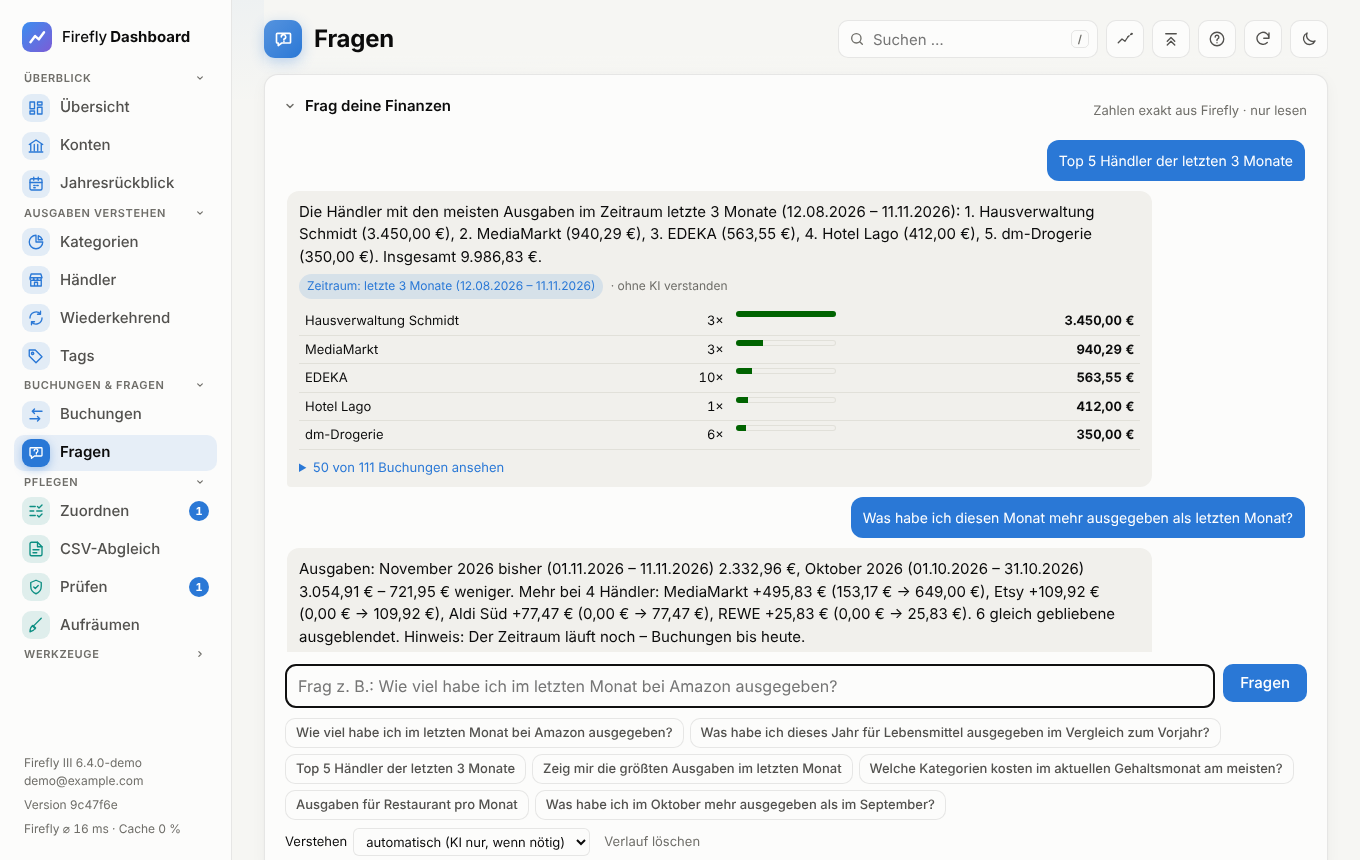
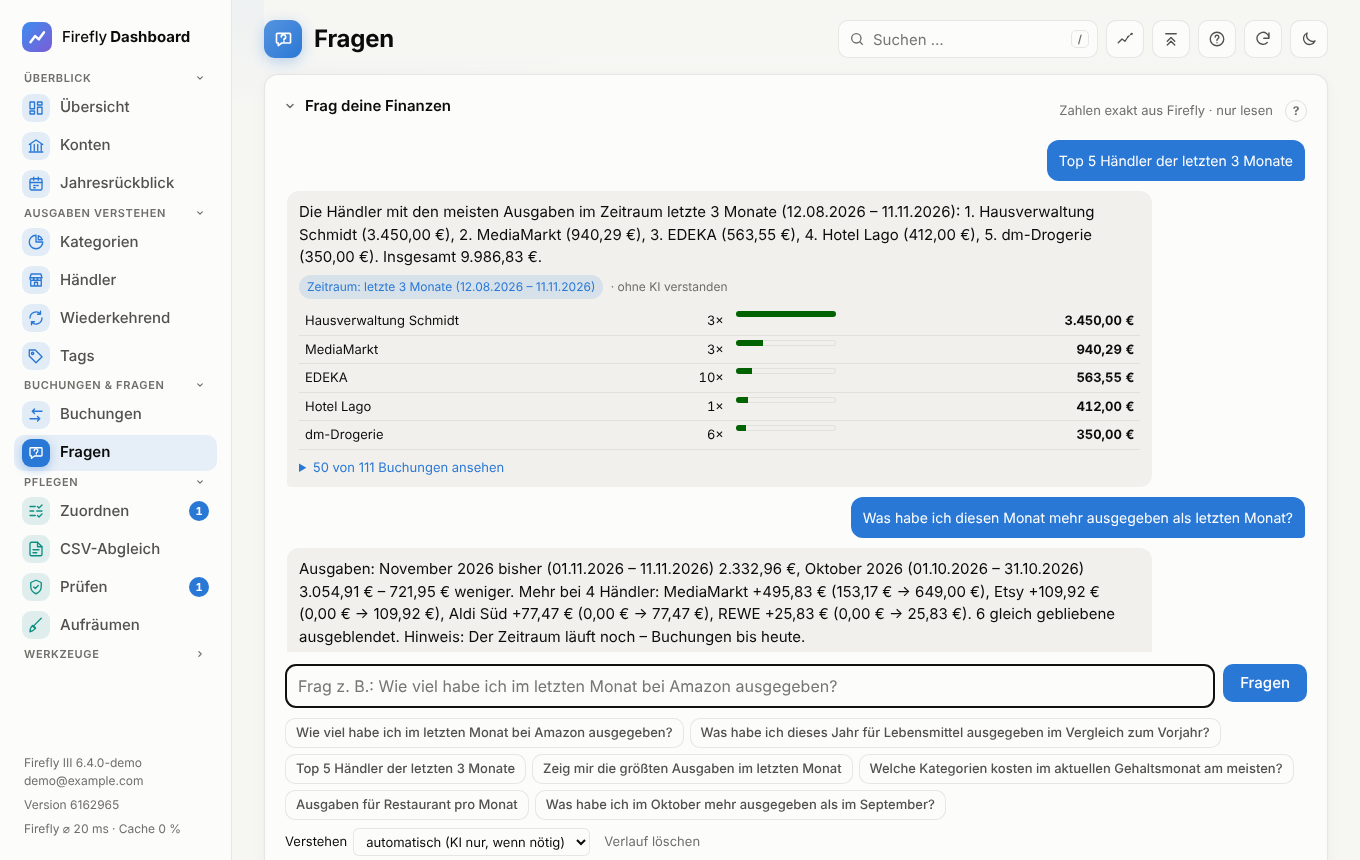
Doku vervollständigt: Hilfe zu allen Karten, Menü, LEDGER
- Hilfe (?) für die neuen Karten: Zuordnen, Wiederkehrend (Vorschau, Demnächst,
  Verträge, Rücklage, Von Hand), Kategorien zusammenführen, CSV-Abgleich, Händler, Fragen
- Seitenhilfe: „In Firefly übernehmen“ (Zuordnen), Kategorien zusammenführen
  (Aufräumen), Kontostand-Vergleich (CSV-Archiv)
- Kartenkennung a-cats im Aufräumen doppelt mit der Kontoseite → a-catmerge
- README: Abschnitt Menü; .env.example: LEDGER
- Screenshots neu (Hilfe-Knöpfe auf den Karten)

Claude-Session: https://claude.ai/code/session_017CCe4q4F121UhA8tHqTQzy

diff --git a/public/js/help.js b/public/js/help.js
@@ -36,7 +36,7 @@ export const PAGES = {
     app: 'Sucht gleiche Empfänger mit regelmäßigem Rhythmus (monatlich, quartalsweise, jährlich …). „Streng/Normal/Locker“ bestimmt, wie genau Rhythmus und Betrag passen müssen. Der Rhythmus-Filter (mehrere wählbar) wirkt auf Kacheln, „Demnächst fällig“ und die Tabelle.',
     firefly: READ_ONLY,
     tips: ['Kontostand-Vorschau: Kontostand heute plus/minus die erwarteten regelmäßigen Buchungen des Kontos (bis zum Gehalt oder 30–90 Tage), auf Wunsch mit dem Ø der übrigen Ausgaben – mit tiefstem Stand und Warnung.', '✎ in der Tabelle: Vertragsende, Kündigungsfrist und Verlängerung eintragen – 30 Tage vor der Frist kommt ein Hinweis (Übersicht, n8n, Home Assistant). Dort auch „kein Vertrag – ausblenden“ für Fehlerkennungen.', 'Rücklage: was für vierteljährliche bis jährliche Zahlungen monatlich zurückzulegen ist.', 'Nicht erkannte Verträge (z. B. Jahresbeiträge) unten von Hand anlegen.', '„Demnächst fällig“ zeigt alle erwarteten Termine der nächsten 14–90 Tage mit Summe je Monat und laufender Summe.', 'Häkchen in der Tabelle: eigene Summe bilden (z. B. alle Versicherungen) – je Monat, je Jahr und für die nächsten Tage. Die Auswahl merkt sich das Gerät.', 'Unter der Tabelle steht die Summe aller angezeigten (gefilterten) Einträge.'],
-    cards: ['r-table'],
+    cards: ['r-forecast', 'r-soon', 'r-table', 'r-contracts', 'r-reserve', 'r-add'],
   },
   transactions: {
     title: 'Buchungen',
@@ -71,9 +71,9 @@ export const PAGES = {
     title: 'Kategorien zuordnen',
     what: 'Buchungen ohne Kategorie in Firefly bekommen im Dashboard automatisch eine – aus dem Händler abgeleitet. So laufen z. B. Netto, Aldi und Lidl unter „Lebensmittel“ zusammen.',
     app: 'Die Reihenfolge: deine Zuordnung (einzelne Buchung, dann Händler) → deine Regeln aus dem Labor → deine Import-Zuordnung (Tabelle „Händler → Kategorie“ der Data-Importer-Konfiguration) → gelernt aus deinen kategorisierten Buchungen → eingebaute Händlerliste → KI-Bewertung. Kategorien aus Firefly bleiben immer. Bei PayPal & Co. zählt der Händler aus dem Buchungstext („Ihr Einkauf bei …“). Die automatische Kategorie gilt in Übersicht, Kategorien, Jahresrückblick, Händler, Fragen, Berichten und MQTT. In den Buchungsdetails steht „automatisch“.',
-    firefly: 'Nichts – Firefly bleibt unverändert, dort haben die Buchungen weiter keine Kategorie. Wer sie auch in Firefly haben will: im Labor Regeln nach Firefly übertragen.',
-    tips: ['Oben steht, wie viel der Ausgaben abgedeckt ist. Die offenen Händler sind nach Betrag sortiert – die ersten zehn bringen am meisten.', 'Eine Zuordnung gilt für alle Buchungen des Händlers, auch künftige.', '„Buchungen ansehen“ zeigt jede einzelne Buchung samt Herkunft der Kategorie; „nur diese“ ordnet eine einzelne Buchung abweichend zu.', '„In Firefly übernehmen“: ausgewählte Zuordnungen als Firefly-Regeln (nur für Ausgaben ohne Kategorie, auf Wunsch rückwirkend) – dann setzt Firefly die Kategorie schon beim Import. Einzelne Buchungen werden direkt per n8n gesetzt.', 'Kategorie frei eintippen legt eine neue an (nur im Dashboard).', 'Die Selbstprüfung vergleicht die vom Dashboard gerechneten Summen mit Firefly.'],
-    cards: [],
+    firefly: 'Zuordnen selbst ändert nichts in Firefly – dort haben die Buchungen weiter keine Kategorie. Erst „In Firefly übernehmen“ legt Regeln an (Automation „Firefly-Regeln anlegen“) bzw. setzt einzelne Buchungen (Automation „Kategorie übernehmen“). ' + VIA_N8N,
+    tips: ['Oben steht, wie viel der Ausgaben abgedeckt ist. Die offenen Händler sind nach Betrag sortiert – die ersten zehn bringen am meisten.', 'Eine Zuordnung gilt für alle Buchungen des Händlers, auch künftige.', '„Buchungen ansehen“ zeigt jede einzelne Buchung samt Herkunft der Kategorie; „nur diese“ ordnet eine einzelne Buchung abweichend zu.', '„In Firefly übernehmen“: ausgewählte Zuordnungen als Firefly-Regeln (nur für Ausgaben ohne Kategorie, auf Wunsch rückwirkend) – dann setzt Firefly die Kategorie schon beim Import. Einzelne Buchungen werden direkt per n8n gesetzt.', 'Kategorie frei eintippen legt eine neue an (nur im Dashboard).', 'PayPal-Zahlungen ohne Händler im Text stehen gesammelt unter „PayPal – Händler nicht im Text“ – dort über „Buchungen ansehen“ einzeln zuordnen.', 'Die Selbstprüfung vergleicht die vom Dashboard gerechneten Summen mit Firefly.'],
+    cards: ['z-open', 'z-auto', 'z-ff', 'z-set'],
   },
   check: {
     title: 'Prüfen',
@@ -88,7 +88,7 @@ export const PAGES = {
     app: 'Die Frage wird in eine Abfrage übersetzt (Zeitraum, Händler, Kategorie, Tag, Art der Auswertung) – häufige Fragen ohne KI, ungewöhnliche mit Ollama (wie im Labor eingestellt). Die Zahlen rechnet das Dashboard exakt aus den Firefly-Buchungen; eine KI rechnet nichts und erfindet keine Beträge. Jede Antwort zeigt, wie sie die Frage verstanden hat, und die Buchungen dahinter. Ohne Zeitangabe gelten die letzten 12 Monate. Der Verlauf bleibt nur in diesem Browser.',
     firefly: READ_ONLY,
     tips: ['„Verstehen: automatisch“ nutzt die KI nur, wenn die schnelle Erkennung unsicher ist – das spart Wartezeit bei langsamem Ollama.', 'Händler-, Kategorie- und Tag-Namen so schreiben, wie sie in Firefly heißen; Groß/klein ist egal.', 'Dauert es zu lange: „Abbrechen“ (oder Esc) beendet die Frage – auch die Anfrage an Ollama wird sofort gestoppt.'],
-    cards: [],
+    cards: ['q-chat'],
   },
   merchants: {
     title: 'Händler',
@@ -101,18 +101,18 @@ export const PAGES = {
   cleanup: {
     title: 'Daten aufräumen',
     what: 'Vorschläge, die erst im Dashboard vorbereitet und angepasst und dann per Knopf nach Firefly übertragen werden. Pläne liegen auf dem Server und gelten auf allen Geräten und nach Updates.',
-    app: 'Regeln aus der Import-Konfiguration: die JSON-Datei des Firefly Data Importers hochladen – das Dashboard zeigt die Spaltenzuordnung mit Hinweisen und macht aus der Übersetzungstabelle „Händler → Kategorie“ Regelvorschläge (gleichartige Namen wie Filialnummern zusammengefasst zu „enthält …“). Jede Regel lässt sich ein-/ausschalten, Vergleich, Name, Kategorie und Richtung (Empfänger/Zahler) ändern; Treffer und „würde ändern“ beziehen sich auf die letzten 24 Monate. Gegenkonten zusammenführen: ähnliche Namen (Filialnummern, „sagt Danke“, Groß/klein) oder gleiche IBAN werden gruppiert; je Gruppe Zielkonto, Mitglieder und neuen Namen wählen, ignorieren oder auswählen.',
-    firefly: 'Erst die Knöpfe ändern etwas: „Regeln in Firefly anlegen“ legt die aktiven Regeln in der Regelgruppe „Dashboard: Händler → Kategorie (Import)“ an bzw. gleicht sie ab (Automation „Firefly-Regeln anlegen“), auf Wunsch auch auf vorhandene Buchungen angewendet. „Zusammenführen“ lässt Firefly alle Buchungen der gewählten Konten auf das Zielkonto verschieben (Automation „Kategorie übernehmen“, Zweig „Konten?“) – Kategorien, Tags, Beträge bleiben; leere Konten werden danach nur auf ausdrücklichen Klick gelöscht. ' + VIA_N8N,
+    app: 'Regeln aus der Import-Konfiguration: die JSON-Datei des Firefly Data Importers hochladen – das Dashboard zeigt die Spaltenzuordnung mit Hinweisen und macht aus der Übersetzungstabelle „Händler → Kategorie“ Regelvorschläge (gleichartige Namen wie Filialnummern zusammengefasst zu „enthält …“). Jede Regel lässt sich ein-/ausschalten, Vergleich, Name, Kategorie und Richtung (Empfänger/Zahler) ändern; Treffer und „würde ändern“ beziehen sich auf die letzten 24 Monate. Gegenkonten zusammenführen: ähnliche Namen (Filialnummern, „sagt Danke“, Groß/klein) oder gleiche IBAN werden gruppiert; je Gruppe Zielkonto, Mitglieder und neuen Namen wählen, ignorieren oder auswählen. Kategorien zusammenführen: mehrere Kategorien zu einer – nur im Dashboard (sofort, umkehrbar) oder zusätzlich in Firefly.',
+    firefly: 'Erst die Knöpfe ändern etwas: „Regeln in Firefly anlegen“ legt die aktiven Regeln in der Regelgruppe „Dashboard: Händler → Kategorie (Import)“ an bzw. gleicht sie ab (Automation „Firefly-Regeln anlegen“), auf Wunsch auch auf vorhandene Buchungen angewendet. „Zusammenführen“ lässt Firefly alle Buchungen der gewählten Konten auf das Zielkonto verschieben (Automation „Kategorie übernehmen“, Zweig „Konten?“) – Kategorien, Tags, Beträge bleiben; leere Konten werden danach nur auf ausdrücklichen Klick gelöscht. „In Firefly zusammenführen“ legt je Kategorie eine Regel „Kategorie ist A → B“ an (Gruppe „Dashboard: Kategorien zusammengeführt“) und wendet sie auf alle Buchungen an. ' + VIA_N8N,
     tips: ['Reihenfolge: erst CSV-Abgleich (Empfänger nachtragen), dann Gegenkonten zusammenführen, dann die Regeln übertragen – so passen Treffer und Namen.', 'Eine erneut hochgeladene Datei ersetzt nur die Vorschläge; deine Anpassungen bleiben.'],
-    cards: ['a-import', 'a-merge'],
+    cards: ['a-import', 'a-merge', 'a-catmerge'],
   },
   csvsync: {
     title: 'CSV-Abgleich',
     what: 'Fehlende Empfänger aus den Original-CSV-Dateien der Bank nachtragen – z. B. wenn „Name Zahlungsbeteiligter“ beim Import nicht als Gegenkonto zugeordnet war und in Firefly nur „(no name)“ bzw. „Kartenzahlung“ steht.',
-    app: 'CSV-Archiv: Dateien einmal hochladen (auch viele oder einen ganzen Ordner) – sie liegen auf dem Server (DATA_DIR/csv-archive, komprimiert), gelten auf allen Geräten und bleiben über Updates. Das Archiv sortiert sie nach Konto (IBAN des Auftragskontos, zugeordnet zum Firefly-Bestandskonto mit derselben IBAN), zeigt Zeitraum, Lücken ohne CSV und – per „Mit Firefly abgleichen“ – wie viele Zeilen in Firefly sind, wie viele ohne Empfänger und welche fehlen. Ausgewählte Konten oder Dateien gehen mit „Ausgewählte abgleichen“ in den Abgleich. Gelesen werden die Dateien im Browser (UTF-8 oder Windows-1252, Trennzeichen ; oder ,). Spalten erkennt das Dashboard an der Kopfzeile (VR-Banken, Sparkassen u. a.). Jede Zeile wird der vorhandenen Buchung zugeordnet: gleicher Betrag, gleiches Datum (Valuta oder Buchungstag) und gleicher Verwendungszweck; gleichartige Zeilen (zweimal 2,50 € beim Bäcker) der Reihe nach. Überlappende Dateien schaden nicht. Vorgewählt sind nur Buchungen ohne echten Empfänger; abweichende Empfänger nur, wenn du es ausdrücklich ankreuzt.',
+    app: 'CSV-Archiv: Dateien einmal hochladen (auch viele oder einen ganzen Ordner) – sie liegen auf dem Server (DATA_DIR/csv-archive, komprimiert), gelten auf allen Geräten und bleiben über Updates. Das Archiv sortiert sie nach Konto (IBAN des Auftragskontos, zugeordnet zum Firefly-Bestandskonto mit derselben IBAN), zeigt Zeitraum, Lücken ohne CSV und – per „Mit Firefly abgleichen“ – wie viele Zeilen in Firefly sind, wie viele ohne Empfänger und welche fehlen. Enthält die CSV den „Saldo nach Buchung“, vergleicht das Archiv außerdem den Kontostand laut Bank Tag für Tag mit Firefly und zeigt bei einer Abweichung, seit wann sie besteht und welche Buchungen in Frage kommen (fehlt, doppelt, vorgemerkt, Lücke im Export). Ausgewählte Konten oder Dateien gehen mit „Ausgewählte abgleichen“ in den Abgleich. Gelesen werden die Dateien im Browser (UTF-8 oder Windows-1252, Trennzeichen ; oder ,). Spalten erkennt das Dashboard an der Kopfzeile (VR-Banken, Sparkassen u. a.). Jede Zeile wird der vorhandenen Buchung zugeordnet: gleicher Betrag, gleiches Datum (Valuta oder Buchungstag) und gleicher Verwendungszweck; gleichartige Zeilen (zweimal 2,50 € beim Bäcker) der Reihe nach. Überlappende Dateien schaden nicht. Vorgewählt sind nur Buchungen ohne echten Empfänger; abweichende Empfänger nur, wenn du es ausdrücklich ankreuzt.',
     firefly: 'Erst „Empfänger nach Firefly übertragen“ ändert etwas – „im Hintergrund“ läuft als Auftrag auf dem Server: Handy oder PC dürfen danach aus sein, Stand und Anhalten/Fortsetzen/Verwerfen gibt es auf jedem Gerät (Karte „Übertragung auf dem Server“). Bricht die Verbindung zu n8n oder Firefly ab, versucht der Server es nach 1, 2, 5, 10, 15, dann alle 30 Minuten erneut (bis zu 12 Stunden); nach einem Neustart oder Update macht er weiter. Fehlende Buchungen gehen bis zu dreimal raus. n8n antwortet sofort und speichert danach in Portionen; das nächste Paket geht raus, sobald die letzte Buchung des vorigen in Firefly steht (Pakete so bemessen, dass jede n8n-Ausführung rund 3 Minuten dauert); oder „in Paketen“ (Größe automatisch ~1 Minute oder fest 10–200, bis zu 4 gleichzeitig). Geprüft wird erst, wenn alles geschickt ist: Das Dashboard sieht in Firefly nach, was angekommen ist, schickt nur den Rest einmal erneut und prüft diesen noch einmal. Der n8n-Workflow (Auslöser „Kategorie übernehmen“, typ „gegenkonto_setzen“) setzt je Buchung Name und auf Wunsch IBAN/BIC des Gegenkontos – Firefly ordnet das Konto zu oder legt es an. Kategorien, Tags, Notizen und Beschreibung bleiben unverändert. ' + VIA_N8N,
     tips: ['Ruhig alle CSV-Dateien auf einmal wählen – gleiche Zeilen aus überlappenden Dateien zählen nur einmal.', '„Neue Zeilen importieren“ schickt nur Zeilen, die in Firefly nicht gefunden wurden, samt Import-Konfiguration an den Data Importer (Automation „CSV importieren“, Workflow n8n/firefly-csv-import.json) – kein doppelter Import.', 'Optional: „nichtssagende Beschreibung ersetzen“ (Verwendungszweck bzw. „Kartenzahlung <Händler>“) und „Zahlungsart als Tag“ (Kartenzahlung, Lastschrift, Dauerauftrag …) – mit Vorschau je Zeile, auch für schon synchrone Buchungen.', '„Noch nicht umgestellt“ prüft direkt in Firefly (ohne CSV), welche Ausgaben und Einnahmen noch keinen echten Empfänger haben – nach Monat und Konto, mit Liste und CSV-Export. So siehst du, für welche Zeiträume noch eine Bank-CSV fehlt.', 'Übertragene Zeilen merkt sich das Dashboard (nur ein Fingerabdruck je Zeile, auf dem Server): Liest du dieselbe Datei noch einmal ein, werden sie übersprungen. „Gedächtnis leeren“ setzt das zurück – in Firefly ändert sich dadurch nichts.', '„nicht gefunden“: meist Buchungen, die nie importiert oder in Firefly geändert/gelöscht wurden.', 'Danach im Labor: Regel-Vorschläge nach Empfänger und die KI-Analyse werden deutlich besser.', 'Für künftige Importe im Data Importer „Name Zahlungsbeteiligter“ als Gegenkonto-Name und „IBAN Zahlungsbeteiligter“ als Gegenkonto-IBAN zuordnen.'],
-    cards: ['s-archive', 's-files', 's-result'],
+    cards: ['s-job', 's-archive', 's-files', 's-open', 's-result', 's-import'],
   },
   lab: {
     title: 'Kategorien-Labor',
@@ -232,6 +232,35 @@ export const CARDS = {
   'y-cats': { title: 'Kategorien im Vorjahresvergleich', what: 'Jede Kategorie gegenüber dem Vorjahr.', app: '', firefly: READ_ONLY },
   'y-top': { title: 'Größte Ausgaben', what: 'Die größten Posten; gleiche (z. B. 12× Miete) zusammengefasst.', app: '', firefly: READ_ONLY },
   'y-subs': { title: 'Abos & Verträge', what: 'Was die erkannten regelmäßigen Zahlungen pro Jahr kosten.', app: '', firefly: READ_ONLY },
+  // Händler
+  'm-list': { title: 'Händler', what: 'Alle Händler mit Ausgaben der letzten 12 Monate, Vergleich mit den 12 davor, Häufigkeit und Ø Betrag.', app: 'Sortierung oben wählen, Filterfeld durchsucht die Liste; Klick auf einen Namen öffnet die Händler-Seite.', firefly: READ_ONLY },
+  'm-price': { title: 'Preisentwicklung', what: 'Händler, bei denen der Ø Betrag der letzten 6 Monate deutlich von den 6 davor abweicht (mind. 4 Einkäufe je Halbjahr).', app: '', firefly: READ_ONLY },
+  'm-fresh': { title: 'Neue Händler', what: 'Händler mit der ersten Buchung in den letzten 60 Tagen.', app: '', firefly: READ_ONLY },
+  'm-needs': { title: 'Sparpotenzial', what: 'Wie sich die Ausgaben je Monat auf notwendig, sinnvoll und verzichtbar verteilen.', app: 'Nutzt die KI-Bewertung je Händler aus dem Labor (Reiter „KI“); abgelehnte Bewertungen zählen nicht.', firefly: READ_ONLY },
+  // Zuordnen
+  'z-open': { title: 'Noch nicht zugeordnet', what: 'Händler, deren Ausgaben weder in Firefly noch automatisch eine Kategorie haben – nach Betrag sortiert.', app: 'Kategorie eintippen oder wählen und „Zuordnen“ – gilt für alle Buchungen des Händlers, auch künftige. „Buchungen ansehen“ zeigt die einzelnen Buchungen; „nur diese“ ordnet eine einzelne zu.', firefly: 'Nichts (nur im Dashboard) – nach Firefly über „In Firefly übernehmen“.' },
+  'z-auto': { title: 'Automatisch zugeordnet', what: 'Händler, deren Ausgaben das Dashboard automatisch einer Kategorie zuordnet, mit der Quelle (deine Zuordnung, Regel, Import-Zuordnung, gelernt, Händlerliste, KI).', app: '„Ändern“ setzt eine eigene Zuordnung, die vor allen anderen Quellen gilt; „zurücksetzen“ nimmt sie zurück. „Buchungen ansehen“ zeigt jede Buchung mit Herkunft ihrer Kategorie.', firefly: 'Nichts (nur im Dashboard).' },
+  'z-ff': { title: 'In Firefly übernehmen', what: 'Macht aus Zuordnungen Firefly-Regeln „Händler → Kategorie“, damit Firefly die Kategorie schon beim Import setzt.', app: 'Händler ankreuzen (KI-Zuordnungen sind anfangs nicht angehakt), Zeitraum fürs rückwirkende Anwenden wählen, übertragen. Übertragene sind mit „in Firefly“ markiert, später geänderte mit „geändert“.', firefly: 'Regeln in der Gruppe „Dashboard: Händler → Kategorie (Zuordnen)“ (Automation „Firefly-Regeln anlegen“) – nur für Ausgaben ohne Kategorie, vorhandene Kategorien bleiben. Einzeln zugeordnete Buchungen setzt die Automation „Kategorie übernehmen“ direkt. ' + VIA_N8N, tips: ['„Regel entfernen“ löscht die Regel in Firefly; schon gesetzte Kategorien bleiben.'] },
+  'z-set': { title: 'Einstellungen', what: 'Woraus die automatischen Kategorien abgeleitet werden und wie viel Geld jede Quelle zuordnet.', app: 'Lernen, Händlerliste und KI lassen sich einzeln abschalten; für die KI gilt eine Mindest-Sicherheit. Die Selbstprüfung vergleicht die vom Dashboard gerechneten Summen mit Firefly.', firefly: 'Nichts.' },
+  // Wiederkehrend
+  'r-forecast': { title: 'Kontostand-Vorschau', what: 'Wie sich der Kontostand eines Kontos voraussichtlich entwickelt – bis zum Ende des Gehaltsmonats, bis zum nächsten Gehalt oder 30/60/90 Tage.', app: 'Start ist der aktuelle Kontostand in Firefly; dazu die erwarteten regelmäßigen Ein- und Ausgänge dieses Kontos und auf Wunsch der Tagesdurchschnitt der übrigen Ausgaben der letzten 90 Tage. Gezeigt werden Verlauf, Stand am Ende und der tiefste Stand – gelb, wenn es knapp wird, rot unter null.', firefly: READ_ONLY, tips: ['Umbuchungen zwischen eigenen Konten sind nicht enthalten; was heute fällig ist, kann schon gebucht sein.', 'Der Gehaltstag ist derselbe wie bei den Gehaltsmonaten in der Zeitraum-Auswahl.'] },
+  'r-soon': { title: 'Demnächst fällig', what: 'Alle erwarteten regelmäßigen Zahlungen bis zum nächsten Gehalt oder der nächsten 14–90 Tage, nach Datum.', app: 'Mit Zwischensumme je Monat und laufender Summe; der Rhythmus-Filter oben wirkt mit.', firefly: READ_ONLY },
+  'r-contracts': { title: 'Verträge & Kündigungsfristen', what: 'Einträge mit Vertragsdaten, nach der nächsten Kündigungsfrist sortiert.', app: 'Über ✎ in der Tabelle: Vertragsende, Kündigungsfrist, automatische Verlängerung und Notiz. Verlängert sich ein Vertrag, rechnet das Dashboard die nächste Frist weiter. 30 Tage vorher erscheint ein Hinweis in der Übersicht, geht per Automation „Warnungen“ an n8n und als Sensor „Nächste Kündigungsfrist“ an Home Assistant.', firefly: 'Nichts – gespeichert im Dashboard.' },
+  'r-reserve': { title: 'Rücklage für seltene Zahlungen', what: 'Vierteljährliche bis jährliche Zahlungen und was dafür monatlich zurückzulegen ist.', app: '„Dauerhaft je Monat“ = Betrag je Jahr ÷ 12; „ab jetzt bis zu den nächsten Terminen“ = was bis zum jeweils nächsten Termin fehlt, wenn noch nichts zurückgelegt ist.', firefly: READ_ONLY },
+  'r-add': { title: 'Vertrag von Hand anlegen', what: 'Für regelmäßige Zahlungen, die die Erkennung nicht findet – z. B. ein Jahresbeitrag, der erst einmal gebucht wurde.', app: 'Name, Betrag, Rhythmus, nächster Termin, optional Kategorie und Konto. Zählt in Summen, „Demnächst fällig“, Rücklage und Kontostand-Vorschau mit; löschen über ✎.', firefly: 'Nichts – gespeichert im Dashboard.' },
+  // Fragen
+  'q-chat': { title: 'Frag deine Finanzen', what: 'Fragen in normaler Sprache – die Antwort rechnet das Dashboard exakt aus den Buchungen.', app: 'Jede Antwort zeigt, wie die Frage verstanden wurde, und die Buchungen dahinter. Der Verlauf bleibt nur in diesem Browser.', firefly: READ_ONLY },
+  // Aufräumen
+  'a-import': { title: 'Regeln aus der Import-Konfiguration', what: 'Macht aus der Tabelle „Händler → Kategorie“ der Data-Importer-Konfiguration Regelvorschläge.', app: 'JSON-Datei hochladen; jede Regel ein-/ausschalten und anpassen. Treffer beziehen sich auf die letzten 24 Monate.', firefly: '„Regeln in Firefly anlegen“ legt die aktiven Regeln in der Gruppe „Dashboard: Händler → Kategorie (Import)“ an. ' + VIA_N8N },
+  'a-merge': { title: 'Ähnliche Gegenkonten zusammenführen', what: 'Gruppen ähnlicher Gegenkonten (Filialnummern, Schreibweisen, gleiche IBAN).', app: 'Je Gruppe Zielkonto, Mitglieder und Namen wählen, ignorieren oder auswählen.', firefly: '„Zusammenführen“ verschiebt alle Buchungen der gewählten Konten auf das Zielkonto; leere Konten nur auf ausdrücklichen Klick löschen. ' + VIA_N8N },
+  'a-catmerge': { title: 'Kategorien zusammenführen', what: 'Mehrere Kategorien zu einer machen, z. B. „Supermarkt“ und „Einkauf“ → „Lebensmittel“.', app: 'Kategorien ankreuzen (mit Buchungen und Summen der letzten 24 Monate, Vorschläge bei fast gleichen Namen), Ziel wählen oder neu eintippen. „Nur im Dashboard“ wirkt sofort in allen Auswertungen und lässt sich aufheben; nach Firefly übertragen geht auch später.', firefly: '„In Firefly“: je Kategorie eine Regel „Kategorie ist A → B“ (Gruppe „Dashboard: Kategorien zusammengeführt“, Automation „Firefly-Regeln anlegen“), angewendet auf alle Buchungen – auch künftige Importe landen im Ziel. Aufheben entfernt die Regel; umgestellte Buchungen behalten die neue Kategorie. ' + VIA_N8N, tips: ['Leere alte Kategorien danach in Firefly löschen und in der Import-Konfiguration die alte durch die neue ersetzen.'] },
+  // CSV-Abgleich
+  's-job': { title: 'Übertragung auf dem Server', what: 'Stand der laufenden Übertragung nach Firefly – von jedem Gerät aus.', app: 'Anhalten, Fortsetzen oder Verwerfen; der Server macht auch nach Abbrüchen, Neustarts und Updates weiter.', firefly: VIA_N8N },
+  's-archive': { title: 'CSV-Archiv', what: 'Alle hochgeladenen Bank-CSV-Dateien nach Konto, mit Zeitraum und Lücken.', app: '„Mit Firefly abgleichen“ zeigt je Konto, was in Firefly ist, was ohne Empfänger und was fehlt – und, mit Saldo-Spalte, den Kontostand laut Bank im Vergleich zu Firefly.', firefly: READ_ONLY },
+  's-files': { title: 'Bank-CSV abgleichen', what: 'Dateien aus dem Archiv oder direkt gewählte Dateien mit den Firefly-Buchungen abgleichen.', app: 'Jede Zeile wird der passenden Buchung zugeordnet (Betrag, Datum, Verwendungszweck).', firefly: READ_ONLY },
+  's-open': { title: 'Noch nicht umgestellt', what: 'Buchungen in Firefly ohne echten Empfänger – nach Monat und Konto, ohne CSV.', app: 'Zeigt, für welche Zeiträume noch eine Bank-CSV fehlt; Liste und CSV-Export.', firefly: READ_ONLY },
+  's-result': { title: 'Ergebnis', what: 'Je Zeile: gefunden, Empfänger fehlt, abweichend oder nicht gefunden.', app: 'Vorgewählt sind Buchungen ohne echten Empfänger; „Empfänger nach Firefly übertragen“ startet die Übertragung.', firefly: VIA_N8N },
+  's-import': { title: 'Neue Zeilen importieren', what: 'CSV-Zeilen, die in Firefly nicht gefunden wurden, nachträglich importieren.', app: 'Schickt nur die fehlenden Zeilen samt Import-Konfiguration an den Data Importer – kein doppelter Import.', firefly: 'Über die Automation „CSV importieren“ (n8n/firefly-csv-import.json). ' + VIA_N8N },
 };
 
 

diff --git a/public/js/cleanup.js b/public/js/cleanup.js
@@ -31,12 +31,12 @@ export async function cleanup(view) {
     <div class="grid">
       ${card('a-import', 'Regeln aus der Import-Konfiguration', { meta: '<span id="a-import-meta"></span>' })}
       ${card('a-merge', 'Ähnliche Gegenkonten zusammenführen', { meta: '<span id="a-merge-meta"></span>' })}
-      ${card('a-cats', 'Kategorien zusammenführen', { meta: '<span id="a-cats-meta"></span>' })}
+      ${card('a-catmerge', 'Kategorien zusammenführen', { meta: '<span id="a-catmerge-meta"></span>' })}
     </div>`;
   const $ = (id) => view.querySelector(`#${id}`);
   $('a-import').innerHTML = skeleton(4);
   $('a-merge').innerHTML = skeleton(4);
-  $('a-cats').innerHTML = skeleton(4);
+  $('a-catmerge').innerHTML = skeleton(4);
 
   let txs;
   let categories;
@@ -58,7 +58,7 @@ export async function cleanup(view) {
     return;
   }
   if (!view.isConnected) return;
-  catMergeCard($('a-cats'), $('a-cats-meta'), { rulesAction });
+  catMergeCard($('a-catmerge'), $('a-catmerge-meta'), { rulesAction });
   const catNames = categories.map((c) => c.name).sort((a, b) => a.localeCompare(b, 'de'));
 
   // ======================================================================

diff --git a/public/sw.js b/public/sw.js
@@ -1,7 +1,7 @@
 // Service Worker: App sofort starten (auch offline) und zuletzt geladene
 // Daten zeigen, wenn der Server nicht erreichbar ist.
 
-const VERSION = 'ffd-62';
+const VERSION = 'ffd-63';
 const SHELL = `${VERSION}-shell`;
 const DATA = `${VERSION}-data`;
 const MAX_DATA_ENTRIES = 400;

diff --git a/README.md b/README.md
@@ -32,6 +32,12 @@ als frischere Alternative zur Standardoberfläche, wenn du deine Finanzen einfac
 
 <sub>Alle Bilder zeigen die Demo-Daten (<code>npm run demo</code>), keine echten Finanzen.</sub>
 
+- **Menü** – nach Aufgaben gruppiert (Überblick, Ausgaben verstehen, Buchungen & Fragen, Pflegen,
+  Werkzeuge); Gruppen lassen sich auf- und zuklappen (merkt sich das Gerät, „Werkzeuge“ ist anfangs
+  zu). Kleine Zahlen zeigen, wo etwas zu tun ist: offene Händler bei „Zuordnen“, Hinweise bei
+  „Prüfen“, nahe Kündigungsfristen bei „Wiederkehrend“. Am Handy steht unten eine Leiste mit vier
+  Seiten; „Mehr“ öffnet alle Seiten mit Suchfeld, dort legt „Untere Leiste anpassen“ fest, welche
+  vier Seiten unten stehen
 - **Übersicht** – Nettovermögen, Einnahmen und Ausgaben mit Vergleich zur Vorperiode, Saldo &
   Sparquote, Cashflow der letzten 12 Monate, **Geldfluss-Diagramm** (Einnahmen → Ausgaben →
   Gespart; Klick auf einen Block oder ein Band zeigt die Buchungen dazu, mit Sprung zur Analyse
